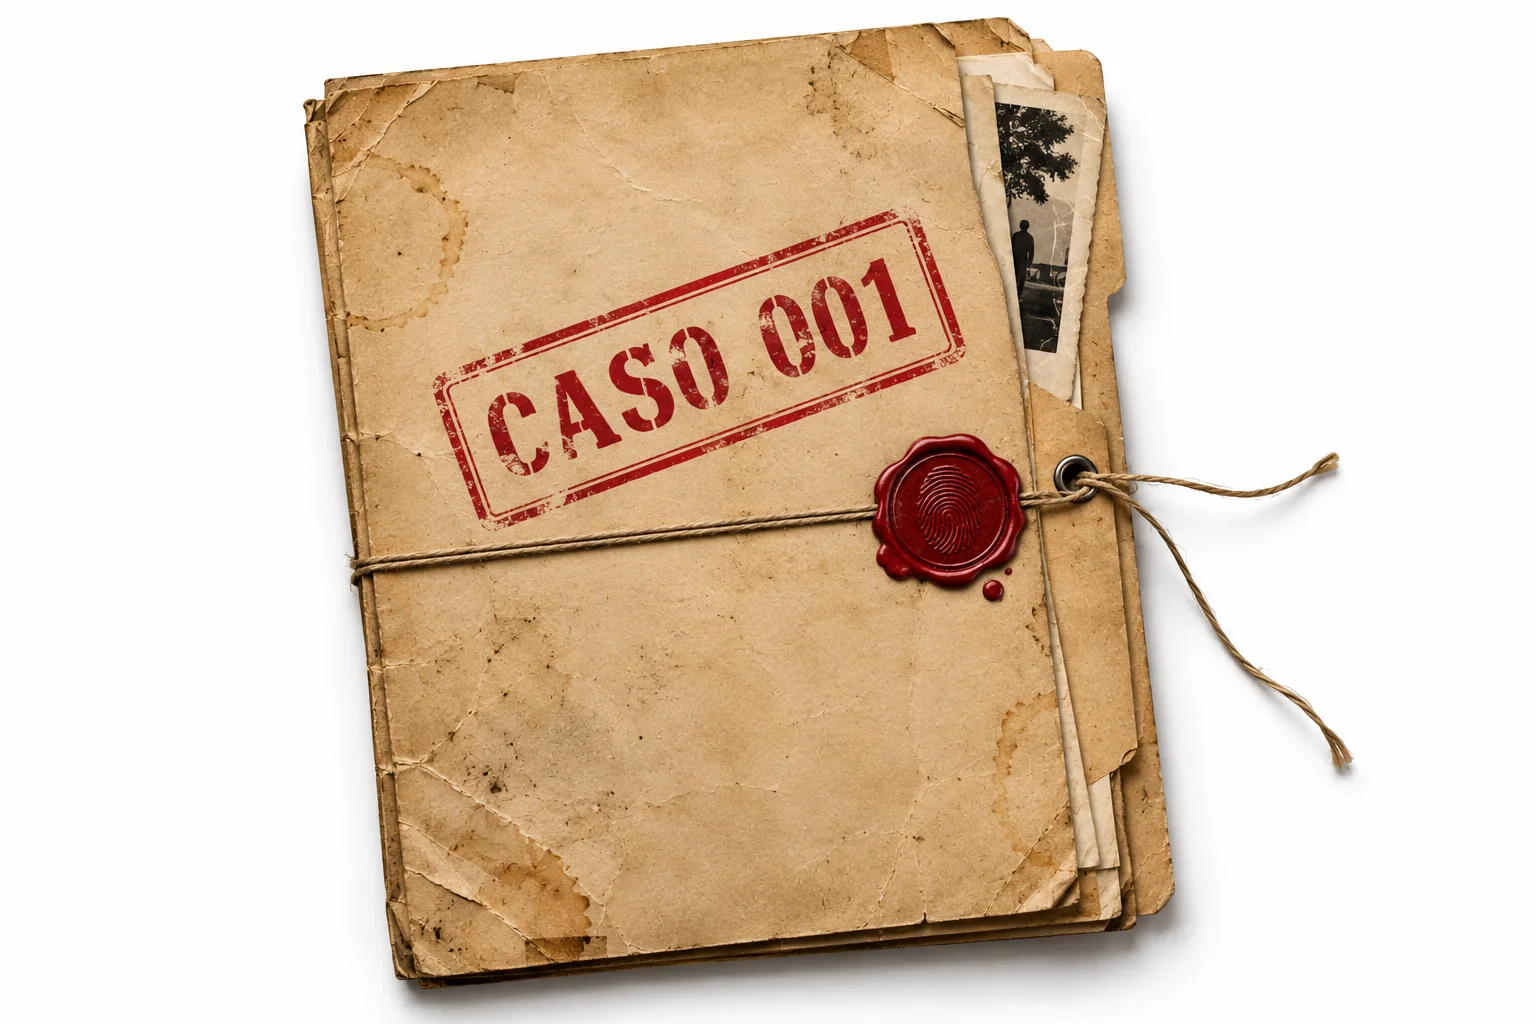
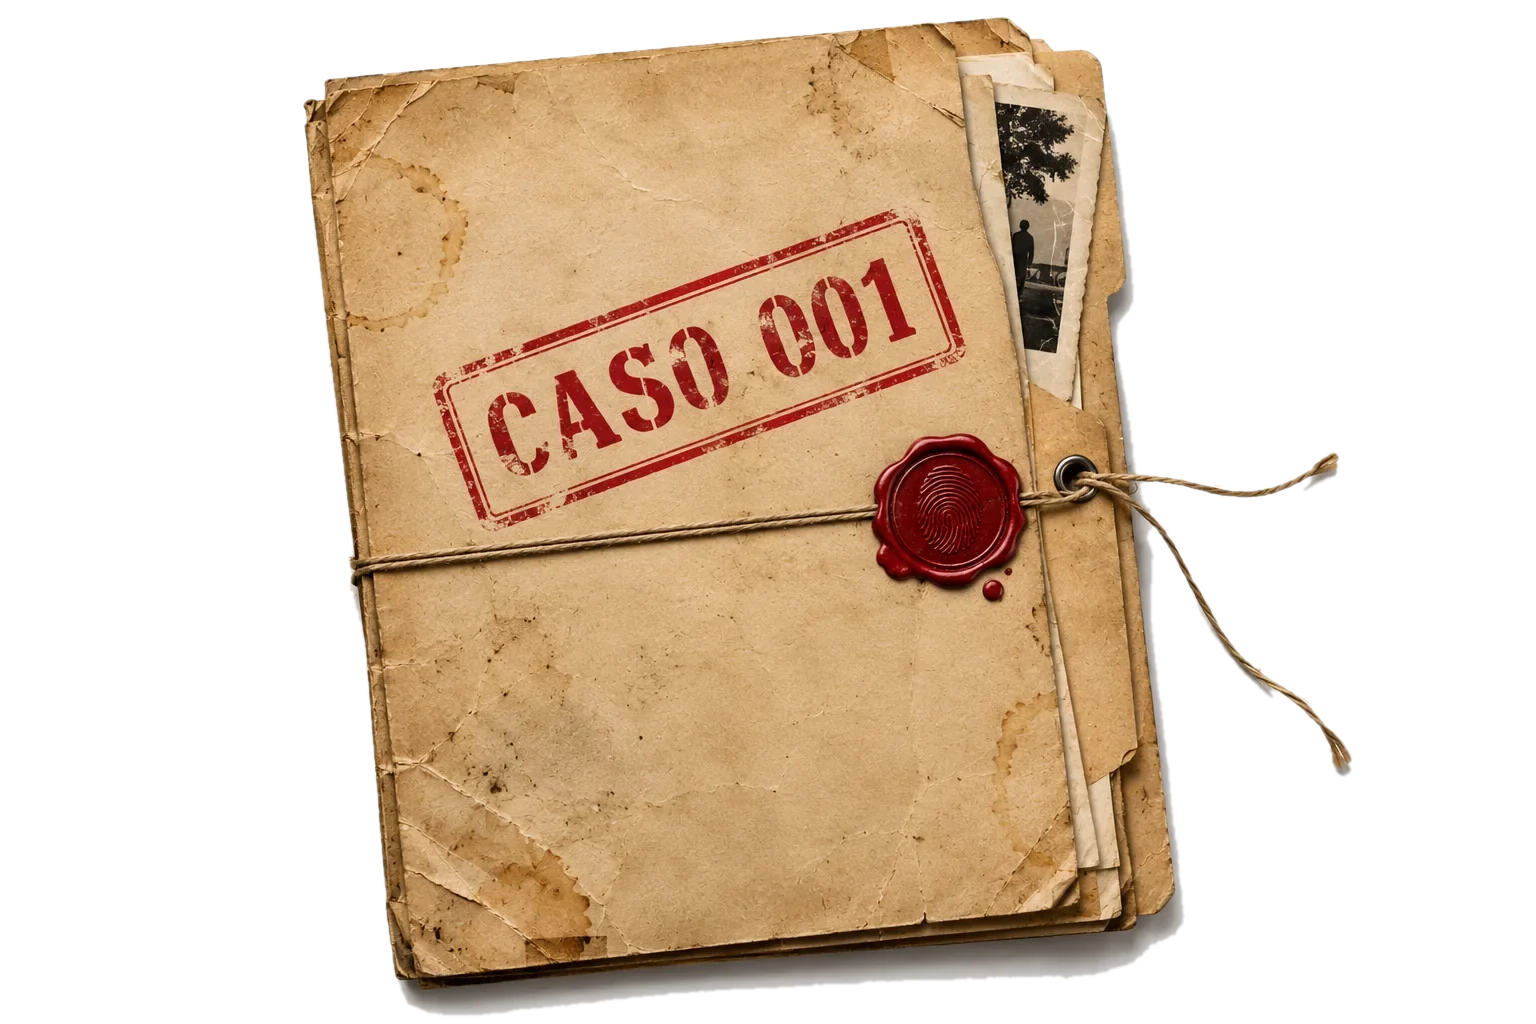
Dark theme for challenge quiz; cut out image backgrounds (originals kept)
Claude-Session: https://claude.ai/code/session_01T42AK1JP4QFjexMZ93sEJx

diff --git a/landing-almeida/desafio.html b/landing-almeida/desafio.html
@@ -3,64 +3,64 @@
 <head>
 <meta charset="utf-8">
 <meta name="viewport" content="width=device-width,initial-scale=1,viewport-fit=cover">
-<meta name="theme-color" content="#ffffff">
+<meta name="theme-color" content="#0d0b0a">
 <title>O Desafio dos 10% | Arquivos Confidenciais</title>
 <link rel="preconnect" href="https://fonts.googleapis.com">
 <link rel="preconnect" href="https://fonts.gstatic.com" crossorigin>
 <link href="https://fonts.googleapis.com/css2?family=DM+Mono:wght@400;500&family=Poppins:wght@400;500;600;700;800&display=swap" rel="stylesheet">
 <script src="funnel.js"></script>
 <style>
-:root{--red:#c70920;--red-d:#a7071c;--ink:#151515;--body:#3c3c3c;--muted:#777;--border:#ece7e5;--blush:#fff4f3;--blush2:#fffaf9;--green:#1d6b3a;--ease:cubic-bezier(.2,.7,.2,1)}
+:root{--red:#c70920;--red-d:#a7071c;--red-t:#ff4d5f;--bg:#0d0b0a;--surface:#161211;--ink:#f4ece9;--body:#c4b8b4;--muted:#8f827e;--border:#2b2423;--blush:#2a1316;--blush2:#1c1112;--green:#5fd18a;--ease:cubic-bezier(.2,.7,.2,1)}
 *{box-sizing:border-box;-webkit-tap-highlight-color:transparent}
 html{scroll-behavior:smooth}
-body{margin:0;background:#f4f2f0;color:var(--ink);font-family:Poppins,Arial,sans-serif;-webkit-font-smoothing:antialiased}
+body{margin:0;background:#050404;color-scheme:dark;color:var(--ink);font-family:Poppins,Arial,sans-serif;-webkit-font-smoothing:antialiased}
 button{font:inherit;color:inherit;border:0;background:none;cursor:pointer;padding:0;text-align:left}
 :focus-visible{outline:2px solid var(--red);outline-offset:3px;border-radius:8px}
 ::selection{background:var(--red);color:#fff}
-.app{width:100%;max-width:560px;min-height:100vh;margin:0 auto;background:#fff;box-shadow:0 20px 70px #2e222010;display:flex;flex-direction:column;position:relative;overflow:clip}
-.topbar{height:4px;background:linear-gradient(90deg,var(--red) 0 24%,#f3eeee 24%)}
+.app{width:100%;max-width:560px;min-height:100vh;margin:0 auto;background:var(--bg);box-shadow:0 0 0 1px #ffffff0d,0 30px 90px #000;display:flex;flex-direction:column;position:relative;overflow:clip}
+.topbar{height:4px;background:linear-gradient(90deg,var(--red) 0 24%,#2b2423 24%)}
 .screen{flex:1;display:none;flex-direction:column;gap:20px;padding:30px 24px 40px}
 .screen.on{display:flex;animation:in .45s var(--ease)}
 @keyframes in{from{opacity:0;transform:translateY(14px)}to{opacity:1;transform:none}}
 .mono{font:500 10px 'DM Mono',monospace;letter-spacing:.1em;text-transform:uppercase}
 .head{display:flex;justify-content:space-between;gap:12px;color:var(--muted);padding-bottom:14px;border-bottom:1px solid var(--border)}
-.head b{color:var(--red);font-weight:500}
-.tag{display:flex;align-items:center;gap:10px;color:var(--red);letter-spacing:.14em}
+.head b{color:var(--red-t);font-weight:500}
+.tag{display:flex;align-items:center;gap:10px;color:var(--red-t);letter-spacing:.14em}
 .tag:before{content:"";width:24px;height:2px;background:var(--red)}
 h1,h2,p{margin:0}
 h1{font-weight:800;font-size:clamp(36px,10vw,52px);line-height:1.02;letter-spacing:-.06em;text-transform:uppercase}
-h1 span,.red{color:var(--red)}
+h1 span,.red{color:var(--red-t)}
 h2{font-weight:700;font-size:clamp(26px,6.5vw,34px);line-height:1.15;letter-spacing:-.045em}
 p{font-size:15.5px;line-height:1.75;color:var(--body);text-wrap:pretty}
 
 /* intro */
-.cover{position:relative;aspect-ratio:16/9;border-radius:14px;overflow:hidden;background:#f3efee;box-shadow:0 14px 34px -14px #221b1950}
+.cover{position:relative;aspect-ratio:16/9;border-radius:14px;overflow:hidden;background:var(--surface);border:1px solid var(--border)}
 .cover img{width:100%;height:100%;object-fit:cover;object-position:center 40%;display:block;transform:scale(1.04);animation:zoom 14s ease-out forwards}
 @keyframes zoom{to{transform:scale(1)}}
 .cover span{position:absolute;left:10px;bottom:10px;font:500 9px 'DM Mono',monospace;letter-spacing:.08em;color:#fff;background:var(--red);padding:5px 8px;border-radius:4px}
-.stat{display:grid;grid-template-columns:auto 1fr;gap:16px;align-items:center;padding:18px;border:1px solid #f2dad9;border-radius:14px;background:var(--blush2)}
-.stat strong{font-weight:800;font-size:clamp(38px,10vw,52px);line-height:1;letter-spacing:-.06em;color:var(--red);white-space:nowrap;font-variant-numeric:tabular-nums}
+.stat{display:grid;grid-template-columns:auto 1fr;gap:16px;align-items:center;padding:18px;border:1px solid #4a2025;border-radius:14px;background:var(--blush2)}
+.stat strong{font-weight:800;font-size:clamp(38px,10vw,52px);line-height:1;letter-spacing:-.06em;color:var(--red-t);white-space:nowrap;font-variant-numeric:tabular-nums}
 .stat small{font-size:13.5px;line-height:1.55;color:var(--body)}
 .lead{font-weight:700;font-size:clamp(21px,5vw,26px);line-height:1.25;letter-spacing:-.04em;color:var(--ink)}
 .codename{display:flex;flex-direction:column;gap:8px}
 .codename span{color:var(--muted)}
-.codename input{width:100%;min-height:54px;padding:0 16px;border:1.5px solid #e7e0de;border-radius:12px;font:500 15px Poppins,sans-serif;color:var(--ink);background:#fff;transition:border-color .2s,box-shadow .2s}
-.codename input::placeholder{color:#b5adaa}
-.codename input:focus{outline:none;border-color:var(--red);box-shadow:0 0 0 4px #c7092014}
+.codename input{width:100%;min-height:54px;padding:0 16px;border:1.5px solid #3a3230;border-radius:12px;font:500 15px Poppins,sans-serif;color:var(--ink);background:var(--surface);transition:border-color .2s,box-shadow .2s}
+.codename input::placeholder{color:#6b615e}
+.codename input:focus{outline:none;border-color:var(--red);box-shadow:0 0 0 4px #c7092033}
 .btn{display:flex;justify-content:center;align-items:center;gap:8px;min-height:58px;width:100%;border-radius:12px;background:var(--red);color:#fff;font-weight:700;font-size:15px;letter-spacing:.02em;text-transform:uppercase;text-align:center;box-shadow:0 9px 20px #c709202a;transition:background .2s,transform .2s var(--ease)}
 .btn:hover{background:var(--red-d);transform:translateY(-2px)}
 .btn:active{transform:scale(.985)}
-.btn.dark{background:var(--ink);box-shadow:none}
-.btn.dark:hover{background:#333}
+.btn.dark{background:#2b2423;box-shadow:none;border:1px solid #3a3230}
+.btn.dark:hover{background:#3a3230}
 .btn svg{transition:transform .2s var(--ease)}.btn:hover svg{transform:translateX(3px)}
 .perks{list-style:none;margin:0;padding:0;display:grid;grid-template-columns:1fr 1fr;gap:8px}
 .perks li{display:flex;gap:8px;align-items:center;padding:11px 12px;border:1px solid var(--border);border-radius:10px;font-size:12.5px;line-height:1.35}
-.perks i{font-style:normal;color:var(--red);font-weight:700}
+.perks i{font-style:normal;color:var(--red-t);font-weight:700}
 .fine{font-size:11px;line-height:1.6;color:var(--muted)}
 
 /* acesso restrito (boot) */
 .app.booting footer{display:none}
-.boot{background:#0f0c0b;color:#e9dcd9;justify-content:center;gap:26px;padding:40px 28px}
+.boot{background:#050404;color:#e9dcd9;justify-content:center;gap:26px;padding:40px 28px}
 .boot .lock{display:flex;align-items:center;gap:12px;color:#ff6b7b}
 .boot .lock i{width:8px;height:8px;border-radius:50%;background:var(--red);animation:blink 1s steps(2) infinite}
 @keyframes blink{50%{opacity:.2}}
@@ -74,18 +74,18 @@ p{font-size:15.5px;line-height:1.75;color:var(--body);text-wrap:pretty}
 .skip:hover{color:#fff}
 
 /* barra do app */
-.appbar{position:sticky;top:0;z-index:20;display:flex;justify-content:space-between;align-items:center;gap:10px;margin:-30px -24px 0;padding:10px 24px;background:#ffffffe6;backdrop-filter:blur(12px);-webkit-backdrop-filter:blur(12px);border-bottom:1px solid var(--border);font:500 10px 'DM Mono',monospace;letter-spacing:.1em;text-transform:uppercase;color:var(--muted)}
+.appbar{position:sticky;top:0;z-index:20;display:flex;justify-content:space-between;align-items:center;gap:10px;margin:-30px -24px 0;padding:10px 24px;background:#0d0b0ae6;backdrop-filter:blur(12px);-webkit-backdrop-filter:blur(12px);border-bottom:1px solid var(--border);font:500 10px 'DM Mono',monospace;letter-spacing:.1em;text-transform:uppercase;color:var(--muted)}
 .appbar .who{display:flex;align-items:center;gap:10px}
 .appbar .rec{width:7px;height:7px;border-radius:50%;background:var(--red);animation:blink 1.4s steps(2) infinite}
 .appbar b{color:var(--ink);font-weight:500}
 .appbar .tools{display:flex;align-items:center;gap:12px}
 .appbar .clock{font-variant-numeric:tabular-nums;color:var(--ink)}
 .snd{min-height:30px;padding:0 10px;border:1px solid var(--border);border-radius:50px;font:500 9px 'DM Mono',monospace;letter-spacing:.1em;text-transform:uppercase;color:var(--muted);transition:all .2s}
-.snd[aria-pressed=true]{border-color:#f2b8b5;background:var(--blush);color:var(--red)}
+.snd[aria-pressed=true]{border-color:#6b2229;background:var(--blush);color:var(--red-t)}
 
 /* quiz */
 .bar{display:flex;justify-content:space-between;align-items:center;min-height:36px}
-.back{display:flex;align-items:center;gap:6px;min-height:44px;font-size:13px;font-weight:500;color:#555;transition:color .2s}.back:hover{color:var(--ink)}
+.back{display:flex;align-items:center;gap:6px;min-height:44px;font-size:13px;font-weight:500;color:#a99d99;transition:color .2s}.back:hover{color:var(--ink)}
 .steps{display:grid;grid-template-columns:repeat(3,1fr);gap:6px}
 .steps i{display:block;height:5px;border-radius:5px;background:var(--border);overflow:hidden;position:relative}
 .steps i:after{content:"";position:absolute;inset:0;background:var(--red);transform:scaleX(0);transform-origin:left;transition:transform .6s var(--ease)}
@@ -94,12 +94,12 @@ p{font-size:15.5px;line-height:1.75;color:var(--body);text-wrap:pretty}
 .qwrap{display:flex;flex-direction:column;gap:16px}
 .qwrap.swap{animation:slide .45s var(--ease)}
 @keyframes slide{from{opacity:0;transform:translateX(24px)}to{opacity:1;transform:none}}
-#qctx.typing:after{content:"▍";color:var(--red);margin-left:1px}
+#qctx.typing:after{content:"▍";color:var(--red-t);margin-left:1px}
 .evidbox{position:relative}
 .evid{display:flex;flex-direction:column;gap:8px;transition:filter .6s var(--ease)}
 .qwrap.sealed .evid{filter:blur(9px) saturate(.6);pointer-events:none;user-select:none}
-.seal{position:absolute;inset:-6px;z-index:2;display:flex;flex-direction:column;align-items:center;justify-content:center;gap:12px;text-align:center;border-radius:16px;border:1.5px dashed #d9a3a9;background:#ffffff59;transition:opacity .5s var(--ease),visibility .5s,transform .5s var(--ease)}
-.seal .sb{font:500 10px 'DM Mono',monospace;letter-spacing:.16em;text-transform:uppercase;color:var(--red);border:2px solid var(--red);border-radius:6px;padding:7px 12px;transform:rotate(-3deg);background:#fff}
+.seal{position:absolute;inset:-6px;z-index:2;display:flex;flex-direction:column;align-items:center;justify-content:center;gap:12px;text-align:center;border-radius:16px;border:1.5px dashed #7a2f38;background:#0d0b0a73;transition:opacity .5s var(--ease),visibility .5s,transform .5s var(--ease)}
+.seal .sb{font:500 10px 'DM Mono',monospace;letter-spacing:.16em;text-transform:uppercase;color:var(--red-t);border:2px solid var(--red-t);border-radius:6px;padding:7px 12px;transform:rotate(-3deg);background:var(--bg)}
 .seal .sh{display:flex;align-items:center;gap:8px;min-height:44px;padding:0 20px;border-radius:50px;background:var(--red);color:#fff;font-weight:700;font-size:13px;letter-spacing:.02em;text-transform:uppercase;box-shadow:0 9px 20px #c709202a;animation:pulse 1.8s ease-in-out infinite}
 @keyframes pulse{50%{transform:scale(1.04)}}
 .seal:hover .sh{background:var(--red-d)}
@@ -107,17 +107,18 @@ p{font-size:15.5px;line-height:1.75;color:var(--body);text-wrap:pretty}
 .qa{display:flex;flex-direction:column;gap:16px}
 .qwrap:not(.sealed) .qa{animation:in .55s var(--ease)}
 .qwrap.sealed .qa{display:none}
-.evid .photo{border:1px solid var(--border);border-radius:12px;overflow:hidden}
+.evid .photo{border-radius:12px;overflow:hidden}
 .evid .photo img{width:100%;height:auto;display:block}
 .pair{display:grid;grid-template-columns:1fr 1fr;gap:8px}
-.card{padding:14px 16px;border:1px solid var(--border);border-radius:12px;display:flex;flex-direction:column;gap:4px;background:#fff}
-.card.hot{border-color:#f2dad9;background:var(--blush2)}
+.card{padding:14px 16px;border:1px solid var(--border);border-radius:12px;display:flex;flex-direction:column;gap:4px;background:var(--surface)}
+.card.hot{border-color:#4a2025;background:var(--blush2)}
 .card .k{font:500 9px 'DM Mono',monospace;letter-spacing:.1em;text-transform:uppercase;color:var(--muted)}
-.card.hot .k{color:var(--red)}
+.card.hot .k{color:var(--red-t)}
 .card .v{font-size:15.5px;line-height:1.55;font-weight:500}
 .card .big{font-weight:800;font-size:30px;letter-spacing:-.05em;line-height:1.1}
-.card.hot .big{color:var(--red)}
-.plate{margin:0;border:1px solid var(--border);border-radius:12px;overflow:hidden;background:#fff}
+.card.hot .big{color:var(--red-t)}
+.plate{margin:0;overflow:hidden}
+.plate img,.evid .photo img,.folder img{filter:drop-shadow(0 18px 24px #000c)}
 .plate img{width:100%;height:auto;display:block}
 .ticket{position:relative}
 .ticket span{position:absolute;font:500 clamp(10px,3.2vw,15px)/1 'DM Mono',monospace;color:#1b2a4e;mix-blend-mode:multiply;transform:rotate(-1.2deg);white-space:nowrap;letter-spacing:.02em}
@@ -128,40 +129,40 @@ p{font-size:15.5px;line-height:1.75;color:var(--body);text-wrap:pretty}
 .ill{font:400 9px 'DM Mono',monospace;letter-spacing:.06em;color:#999;text-transform:uppercase}
 .question{font-weight:700;font-size:18px;line-height:1.4;letter-spacing:-.025em;margin-top:4px}
 .opts{display:flex;flex-direction:column;gap:10px}
-.opt{width:100%;min-height:62px;display:grid;grid-template-columns:34px 1fr;gap:12px;align-items:center;padding:14px 16px;border:1.5px solid #e7e0de;border-radius:12px;background:#fff;font-size:15px;line-height:1.45;color:#2a2a2a;transition:border-color .2s,background .2s,transform .2s var(--ease),box-shadow .2s,opacity .2s}
-.opt .l{width:34px;height:34px;border-radius:50%;border:1.5px solid #d9cfcd;color:#655f5f;display:grid;place-items:center;font:500 12px 'DM Mono',monospace;transition:all .2s}
-.opt:hover{border-color:#c9a9a6;background:var(--blush2)}
+.opt{width:100%;min-height:62px;display:grid;grid-template-columns:34px 1fr;gap:12px;align-items:center;padding:14px 16px;border:1.5px solid #342c2a;border-radius:12px;background:var(--surface);font-size:15px;line-height:1.45;color:var(--ink);transition:border-color .2s,background .2s,transform .2s var(--ease),box-shadow .2s,opacity .2s}
+.opt .l{width:34px;height:34px;border-radius:50%;border:1.5px solid #4a403d;color:#a99d99;display:grid;place-items:center;font:500 12px 'DM Mono',monospace;transition:all .2s}
+.opt:hover{border-color:#7a4a50;background:var(--blush2)}
 .opt:active{transform:scale(.985)}
-.opt.sel{border-color:var(--red);background:var(--blush);color:var(--ink);font-weight:500;box-shadow:0 8px 22px -10px #c709203a}
+.opt.sel{border-color:var(--red-t);background:var(--blush);color:var(--ink);font-weight:500;box-shadow:0 8px 24px -10px #c7092066}
 .opt.sel .l{background:var(--red);border-color:var(--red);color:#fff;transform:scale(1.08)}
-.opt.ok{border-color:#9fd1b3;background:#f2faf5;color:var(--ink);box-shadow:none}
-.opt.ok .l{background:var(--green);border-color:var(--green);color:#fff}
-.opt.bad{border-color:#f2b8b5;background:var(--blush);box-shadow:none}
+.opt.ok{border-color:#2f6b46;background:#0f2218;color:var(--ink);box-shadow:none}
+.opt.ok .l{background:var(--green);border-color:var(--green);color:#06150c}
+.opt.bad{border-color:#6b2229;background:var(--blush);box-shadow:none}
 .opt.bad .l{background:var(--red);border-color:var(--red);color:#fff}
 .opts.locked .opt{pointer-events:none}
 .opts.locked .opt:not(.ok):not(.bad){opacity:.45}
 .shake{animation:shake .4s}
 @keyframes shake{20%,60%{transform:translateX(-6px)}40%,80%{transform:translateX(6px)}}
-.warn{padding:10px 12px;border:1px solid #f2b8b5;border-radius:10px;background:var(--blush);font-size:13px;line-height:1.5;color:#9b001a;display:none}
+.warn{padding:10px 12px;border:1px solid #6b2229;border-radius:10px;background:var(--blush);font-size:13px;line-height:1.5;color:#ff8d9a;display:none}
 .warn.on{display:block;animation:in .3s var(--ease)}
 .fb{display:none;padding:16px 18px;border-radius:12px;gap:6px;flex-direction:column;position:relative}
 .fb.on{display:flex;animation:in .4s var(--ease)}
-.fb.good{background:#f2faf5;border:1px solid #bfe0cb}
-.fb.miss{background:var(--blush);border:1px solid #f2dad9}
+.fb.good{background:#0f2218;border:1px solid #2f6b46}
+.fb.miss{background:var(--blush);border:1px solid #6b2229}
 .fb b{font:500 10px 'DM Mono',monospace;letter-spacing:.12em;text-transform:uppercase}
-.fb.good b{color:var(--green)}.fb.miss b{color:var(--red)}
+.fb.good b{color:var(--green)}.fb.miss b{color:#ff8d9a}
 .fb p{font-size:14.5px;line-height:1.6;color:var(--ink)}
 .fb .st{position:absolute;right:14px;top:12px;font:500 9px 'DM Mono',monospace;letter-spacing:.14em;border:1.5px solid;border-radius:5px;padding:4px 7px;transform:rotate(4deg);animation:stamp .4s var(--ease) backwards}
-.fb.good .st{color:var(--green)}.fb.miss .st{color:var(--red)}
-.kbd{display:none;text-align:center;font:400 10px 'DM Mono',monospace;color:#aaa;letter-spacing:.06em}
+.fb.good .st{color:var(--green)}.fb.miss .st{color:#ff8d9a}
+.kbd{display:none;text-align:center;font:400 10px 'DM Mono',monospace;color:#6b615e;letter-spacing:.06em}
 @media(hover:hover) and (min-width:700px){.kbd{display:block}}
 
 /* transição de arquivo */
-.trans{position:absolute;inset:0;z-index:60;display:none;flex-direction:column;align-items:center;justify-content:center;gap:10px;background:#fff;text-align:center;pointer-events:none}
+.trans{position:absolute;inset:0;z-index:60;display:none;flex-direction:column;align-items:center;justify-content:center;gap:10px;background:var(--bg);text-align:center;pointer-events:none}
 .trans.on{display:flex;animation:flash 1s var(--ease) forwards}
 @keyframes flash{0%{opacity:0}15%{opacity:1}80%{opacity:1}100%{opacity:0}}
-.trans .n{font:800 clamp(80px,26vw,130px)/1 Poppins,sans-serif;letter-spacing:-.07em;color:var(--red)}
-.trans .n small{color:#d9cfcd;font-size:.4em;letter-spacing:-.04em}
+.trans .n{font:800 clamp(80px,26vw,130px)/1 Poppins,sans-serif;letter-spacing:-.07em;color:var(--red-t)}
+.trans .n small{color:#3a3230;font-size:.4em;letter-spacing:-.04em}
 .trans .t{font:500 11px 'DM Mono',monospace;letter-spacing:.2em;text-transform:uppercase;color:var(--ink)}
 .trans .s{font:400 10px 'DM Mono',monospace;letter-spacing:.14em;text-transform:uppercase;color:var(--muted)}
 .trans:before{content:"";position:absolute;left:0;right:0;height:2px;background:linear-gradient(90deg,transparent,var(--red),transparent);animation:scan 1s linear forwards}
@@ -178,9 +179,9 @@ p{font-size:15.5px;line-height:1.75;color:var(--body);text-wrap:pretty}
 .log{font:400 11px/1.9 'DM Mono',monospace;color:var(--muted);min-height:60px}
 
 /* result */
-.stamp{align-self:flex-start;border:2px solid var(--red);color:var(--red);border-radius:6px;padding:6px 12px;font:500 11px 'DM Mono',monospace;letter-spacing:.16em;text-transform:uppercase;transform:rotate(-3deg);animation:stamp .5s .15s var(--ease) backwards}
+.stamp{align-self:flex-start;border:2px solid var(--red-t);color:var(--red-t);border-radius:6px;padding:6px 12px;font:500 11px 'DM Mono',monospace;letter-spacing:.16em;text-transform:uppercase;transform:rotate(-3deg);animation:stamp .5s .15s var(--ease) backwards}
 @keyframes stamp{from{opacity:0;transform:rotate(-12deg) scale(1.8)}to{opacity:1}}
-.cred{border-radius:16px;background:var(--ink);color:#f3ece9;overflow:hidden;box-shadow:0 18px 40px -18px #000a;animation:in .6s .2s var(--ease) backwards}
+.cred{border-radius:16px;background:#1a1514;border:1px solid #2e2625;color:#f3ece9;overflow:hidden;box-shadow:0 18px 40px -18px #000;animation:in .6s .2s var(--ease) backwards}
 .cred-top{display:flex;justify-content:space-between;padding:10px 16px;background:var(--red);color:#fff}
 .cred-body{display:flex;gap:16px;padding:18px 16px;align-items:center}
 .cred-ph{flex:none;width:62px;height:74px;border-radius:8px;background:#2a2523;display:grid;place-items:center;color:#8d7f7b}
@@ -195,23 +196,23 @@ p{font-size:15.5px;line-height:1.75;color:var(--body);text-wrap:pretty}
 .ring svg{width:100%;height:100%;transform:rotate(-90deg)}
 .ring circle{fill:none;stroke-width:7;stroke-linecap:round}
 .ring .bg{stroke:var(--border)}
-.ring .fg{stroke:var(--red);stroke-dasharray:289;stroke-dashoffset:289;transition:stroke-dashoffset 1.2s .2s var(--ease)}
+.ring .fg{stroke:var(--red-t);stroke-dasharray:289;stroke-dashoffset:289;transition:stroke-dashoffset 1.2s .2s var(--ease)}
 .ring div{position:absolute;inset:0;display:grid;place-items:center;text-align:center;font-weight:800;font-size:34px;letter-spacing:-.06em;line-height:1}
 .ring small{display:block;font:500 9px 'DM Mono',monospace;letter-spacing:.1em;color:var(--muted);margin-top:4px}
-.score p{font-size:15px;line-height:1.6;color:#2a2a2a;font-weight:500}
+.score p{font-size:15px;line-height:1.6;color:var(--ink);font-weight:500}
 .report{border:1px solid var(--border);border-radius:14px;overflow:hidden}
-.row{display:grid;grid-template-columns:auto 1fr auto;gap:12px;align-items:center;padding:15px 16px;border-bottom:1px solid #f3efee;animation:in .5s var(--ease) backwards}
+.row{display:grid;grid-template-columns:auto 1fr auto;gap:12px;align-items:center;padding:15px 16px;border-bottom:1px solid var(--border);animation:in .5s var(--ease) backwards}
 .row:last-child{border:0}
 .row:nth-child(2){animation-delay:.1s}.row:nth-child(3){animation-delay:.2s}
 .row .n{font:500 11px 'DM Mono',monospace;color:var(--muted)}
 .row .nm{font-size:14.5px;font-weight:500}
 .pill{font:500 10px 'DM Mono',monospace;letter-spacing:.06em;padding:5px 9px;border-radius:50px;border:1px solid}
-.pill.y{color:var(--green);border-color:#bfe0cb;background:#f2faf5}
-.pill.n{color:#9b001a;border-color:#f2b8b5;background:var(--blush)}
+.pill.y{color:var(--green);border-color:#2f6b46;background:#0f2218}
+.pill.n{color:#ff8d9a;border-color:#6b2229;background:var(--blush)}
 .unlock{display:flex;gap:12px;align-items:center;padding:16px 18px;background:var(--blush);border-radius:12px;font-weight:700;font-size:16px;line-height:1.4;letter-spacing:-.02em}
 .unlock svg{flex:none;width:36px;height:36px;padding:9px;border-radius:50%;background:var(--red);color:#fff}
-.link{align-self:center;min-height:44px;display:flex;align-items:center;font-size:14px;font-weight:500;color:#555;text-decoration:underline;text-underline-offset:4px}.link:hover{color:var(--ink)}
-footer{padding:0 24px 28px;text-align:center;font-size:10.5px;line-height:1.7;color:#999}
+.link{align-self:center;min-height:44px;display:flex;align-items:center;font-size:14px;font-weight:500;color:#a99d99;text-decoration:underline;text-underline-offset:4px}.link:hover{color:var(--ink)}
+footer{padding:0 24px 28px;text-align:center;font-size:10.5px;line-height:1.7;color:#6b615e}
 @media(prefers-reduced-motion:reduce){*{animation:none!important;transition:none!important}}
 </style>
 </head>
@@ -296,7 +297,7 @@ footer{padding:0 24px 28px;text-align:center;font-size:10.5px;line-height:1.7;co
     <div class="cred-foot mono"><span>Acertos <b id="cScore"></b></span><span>Tempo <b id="cTime"></b></span></div>
   </div>
   <div class="score">
-    <div class="ring"><svg viewBox="0 0 104 104"><circle class="bg" cx="52" cy="52" r="46"/><circle class="fg" id="ringfg" cx="52" cy="52" r="46"/></svg><div><span><span id="scoreN">0</span><span style="color:#bbb;font-size:20px">/3</span><small>ACERTOS</small></span></div></div>
+    <div class="ring"><svg viewBox="0 0 104 104"><circle class="bg" cx="52" cy="52" r="46"/><circle class="fg" id="ringfg" cx="52" cy="52" r="46"/></svg><div><span><span id="scoreN">0</span><span style="color:#6b615e;font-size:20px">/3</span><small>ACERTOS</small></span></div></div>
     <p id="msg"></p>
   </div>
   <div class="report" id="report"></div>
